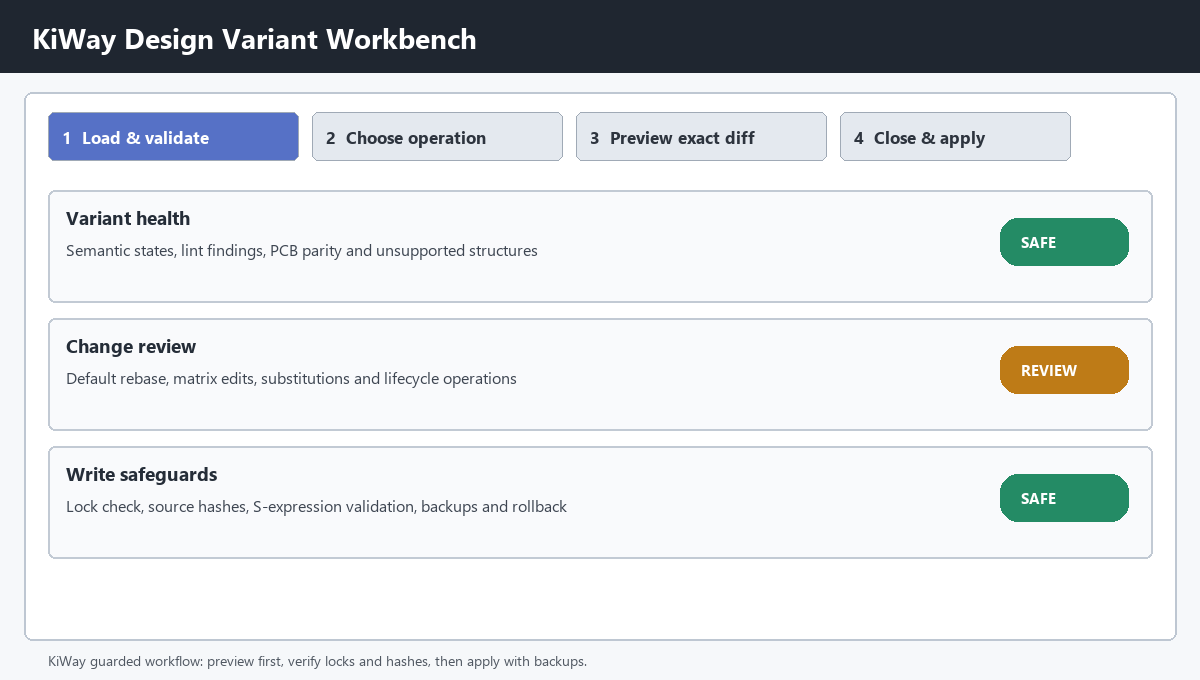
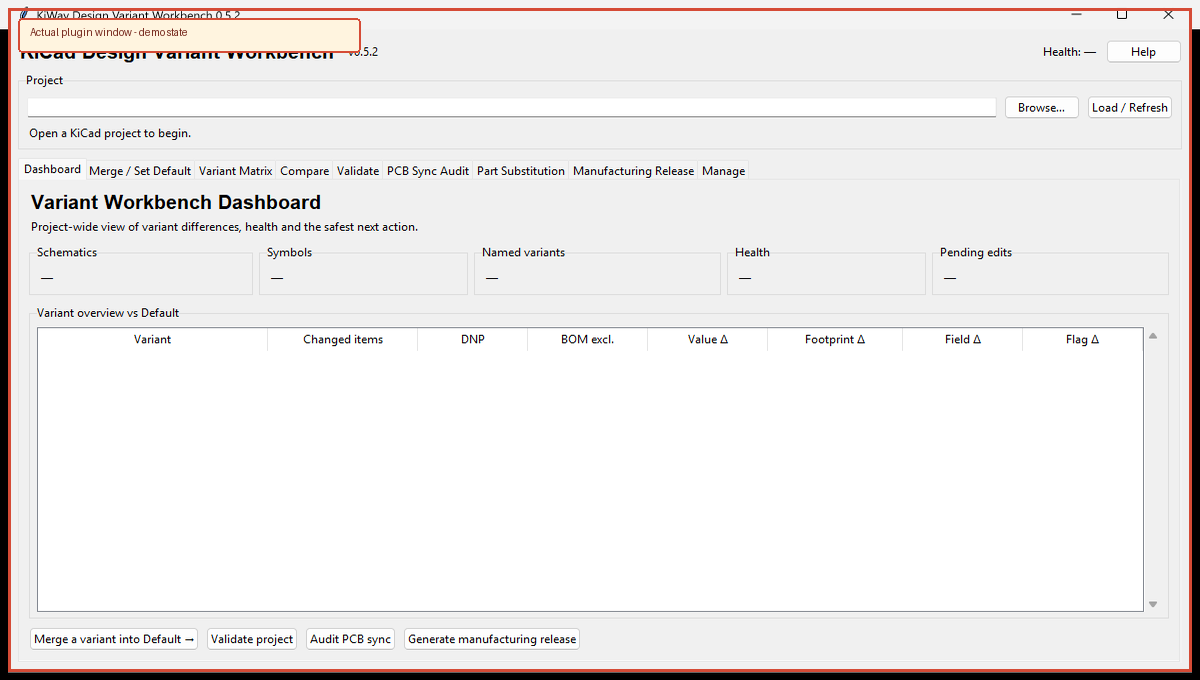
release: publish KiWay 2.21.1

Changed region(s): [[0.0, 0.0, 1.0, 1.0], [0.3392, 0.3397, 0.4625, 0.4015], [0.6167, 0.3397, 0.6475, 0.4015]]

diff --git a/tools/capture_plugin_help.py b/tools/capture_plugin_help.py
@@ -5,6 +5,8 @@ from __future__ import annotations
 import time
 import sys
 import ctypes
+import subprocess
+import tempfile
 from pathlib import Path
 
 import pcbnew
@@ -20,46 +22,110 @@ from signal_integrity_advisor_plugin.signal_integrity_advisor_plugin import Sign
 from test_point_descriptor_plugin.test_point_descriptor_plugin import TestPointFrame
 from trace_impedance_plugin.trace_impedance_plugin import TraceFrame
 from via_stitching_plugin.via_stitching_plugin import ViaFrame
+from portable_assets_plugin.portable_assets.app import PortableAssetsFrame
+from portable_assets_plugin.portable_assets.core.engine import ProjectContext
+from variant_workbench_plugin.variant_manager_plugin import _tk_python
 import wx
 from PIL import Image, ImageDraw
 
 
-def capture(frame: wx.Frame, destination: Path) -> None:
-    frame.SetSize((1200, 680)); frame.SetPosition((30, 30)); frame.Show(); frame.Raise()
-    for _ in range(5):
-        wx.Yield(); time.sleep(0.06)
-    rect = frame.GetScreenRect(); bitmap = wx.Bitmap(rect.width, rect.height)
+def save_window(hwnd: int, destination: Path, title: str) -> None:
+    rect_type = type("RECT", (ctypes.Structure,), {"_fields_": [
+        ("left", ctypes.c_long), ("top", ctypes.c_long),
+        ("right", ctypes.c_long), ("bottom", ctypes.c_long),
+    ]})
+    rect = rect_type()
+    if not ctypes.windll.user32.GetWindowRect(hwnd, ctypes.byref(rect)):
+        raise RuntimeError(f"Could not measure {title}")
+    width, height = rect.right - rect.left, rect.bottom - rect.top
+    bitmap = wx.Bitmap(width, height)
     memory = wx.MemoryDC(bitmap)
-    rendered = ctypes.windll.user32.PrintWindow(int(frame.GetHandle()), int(memory.GetHDC()), 2)
+    rendered = ctypes.windll.user32.PrintWindow(hwnd, int(memory.GetHDC()), 2)
     memory.SelectObject(wx.NullBitmap)
     if not rendered:
-        raise RuntimeError(f"Windows PrintWindow failed for {frame.GetTitle()}")
-    temporary = destination.with_suffix(".capture.png"); bitmap.SaveFile(str(temporary), wx.BITMAP_TYPE_PNG)
+        raise RuntimeError(f"Windows PrintWindow failed for {title}")
+    temporary = destination.with_suffix(".capture.png")
+    bitmap.SaveFile(str(temporary), wx.BITMAP_TYPE_PNG)
     with Image.open(temporary) as source:
         image = source.convert("RGB").resize((1200, 680), Image.Resampling.LANCZOS)
     draw = ImageDraw.Draw(image)
     draw.rectangle((8, 8, 1191, 671), outline="#d54b36", width=3)
     draw.rounded_rectangle((18, 18, 360, 52), radius=4, fill="#fff4df", outline="#d54b36", width=2)
     draw.text((30, 26), "Actual plugin window - demo state", fill="#76281d")
-    image.save(destination, optimize=True); temporary.unlink(missing_ok=True)
+    image.save(destination, optimize=True)
+    temporary.unlink(missing_ok=True)
+
+
+def capture(frame: wx.Frame, destination: Path) -> None:
+    frame.SetSize((1200, 680)); frame.SetPosition((30, 30)); frame.Show(); frame.Raise()
+    for _ in range(5):
+        wx.Yield(); time.sleep(0.06)
+    save_window(int(frame.GetHandle()), destination, frame.GetTitle())
     close = wx.CloseEvent(wx.EVT_CLOSE.typeId); wx.PostEvent(frame, close)
     for _ in range(3): wx.Yield()
+
+
+def capture_variant(destination: Path) -> None:
+    script = ROOT / "variant_workbench_plugin" / "kicad_variant_manager.py"
+    process = subprocess.Popen([_tk_python(), str(script)])
+    hwnd = 0
+    try:
+        for _ in range(100):
+            time.sleep(0.1)
+            matches: list[int] = []
+
+            @ctypes.WINFUNCTYPE(ctypes.c_bool, ctypes.c_int, ctypes.c_int)
+            def visit(candidate: int, _unused: int) -> bool:
+                owner = ctypes.c_ulong()
+                ctypes.windll.user32.GetWindowThreadProcessId(candidate, ctypes.byref(owner))
+                if owner.value != process.pid or not ctypes.windll.user32.IsWindowVisible(candidate):
+                    return True
+                length = ctypes.windll.user32.GetWindowTextLengthW(candidate)
+                if length:
+                    title = ctypes.create_unicode_buffer(length + 1)
+                    ctypes.windll.user32.GetWindowTextW(candidate, title, length + 1)
+                    if title.value.startswith("KiWay Design Variant Workbench"):
+                        matches.append(candidate)
+                return True
+
+            ctypes.windll.user32.EnumWindows(visit, 0)
+            if matches:
+                hwnd = matches[0]
+                break
+        if not hwnd:
+            raise RuntimeError("Variant Workbench window did not appear")
+        ctypes.windll.user32.SetWindowPos(hwnd, 0, 30, 30, 1200, 680, 0x0040)
+        time.sleep(0.4)
+        save_window(hwnd, destination, "KiWay Design Variant Workbench")
+        ctypes.windll.user32.PostMessageW(hwnd, 0x0010, 0, 0)
+        process.wait(timeout=5)
+    finally:
+        if process.poll() is None:
+            process.terminate()
+            process.wait(timeout=5)
 
 
 def main() -> None:
     app = wx.App(False); board = pcbnew.BOARD()
     pcbnew.GetBoard = lambda: board
-    frames = (
-        (BulkLabelEditorFrame(None, board), ROOT / "bulk_label_editor_plugin" / "help-workflow.png"),
-        (PluginDialogV2(None, []), ROOT / "extract_pins_plugin" / "help-workflow.png"),
-        (FanoutFrame(None, board), ROOT / "fanout_generator_plugin" / "help-workflow.png"),
-        (TestPointFrame(None, board), ROOT / "test_point_descriptor_plugin" / "help-workflow.png"),
-        (TraceFrame(None, board), ROOT / "trace_impedance_plugin" / "help-workflow.png"),
-        (ViaFrame(None, board), ROOT / "via_stitching_plugin" / "help-workflow.png"),
-        (SignalIntegrityFrame(None, board), ROOT / "signal_integrity_advisor_plugin" / "help-workflow.png"),
-    )
-    frames[-1][0]._calculate_i2c(None)
-    for frame, destination in frames: capture(frame, destination)
+    with tempfile.TemporaryDirectory(prefix="kiway-help-") as temporary:
+        demo = Path(temporary)
+        (demo / "demo.kicad_pro").write_text("{}\n", encoding="utf-8")
+        pcbnew.SaveBoard(str(demo / "demo.kicad_pcb"), board)
+        frames = (
+            (BulkLabelEditorFrame(None, board), ROOT / "bulk_label_editor_plugin" / "help-workflow.png"),
+            (PluginDialogV2(None, []), ROOT / "extract_pins_plugin" / "help-workflow.png"),
+            (FanoutFrame(None, board), ROOT / "fanout_generator_plugin" / "help-workflow.png"),
+            (TestPointFrame(None, board), ROOT / "test_point_descriptor_plugin" / "help-workflow.png"),
+            (TraceFrame(None, board), ROOT / "trace_impedance_plugin" / "help-workflow.png"),
+            (ViaFrame(None, board), ROOT / "via_stitching_plugin" / "help-workflow.png"),
+            (SignalIntegrityFrame(None, board), ROOT / "signal_integrity_advisor_plugin" / "help-workflow.png"),
+            (PortableAssetsFrame(ProjectContext.discover(demo)), ROOT / "portable_assets_plugin" / "help-workflow.png"),
+        )
+        frames[-2][0]._calculate_i2c(None)
+        for frame, destination in frames:
+            capture(frame, destination)
+    capture_variant(ROOT / "variant_workbench_plugin" / "help-workflow.png")
 
 
 if __name__ == "__main__":

diff --git a/tests/test_ipc_plugins.py b/tests/test_ipc_plugins.py
@@ -25,8 +25,8 @@ from variant_workbench_plugin.kicad_variant_manager import (
 
 ROOT = Path(__file__).resolve().parents[1]
 WORKBENCH_PACKAGES = (
-    ("portable_assets_plugin", "kiway-portable-assets", "0.2.3"),
-    ("variant_workbench_plugin", "kiway-variant-workbench", "0.5.2"),
+    ("portable_assets_plugin", "kiway-portable-assets", "0.2.4"),
+    ("variant_workbench_plugin", "kiway-variant-workbench", "0.5.3"),
 )
 
 
@@ -38,7 +38,7 @@ class WorkbenchPluginTests(unittest.TestCase):
                 metadata = json.loads((package / "metadata.json").read_text(encoding="utf-8"))
                 self.assertEqual(identifier, metadata["identifier"])
                 self.assertEqual(version, metadata["versions"][0]["version"])
-                self.assertEqual("action-plugin", metadata["versions"][0]["runtime"])
+                self.assertEqual("swig", metadata["versions"][0]["runtime"])
                 self.assertTrue((package / "__init__.py").is_file())
                 launcher = (package / "legacy_action_plugin.py").read_text(encoding="utf-8")
                 self.assertIn("pcbnew.ActionPlugin", launcher)
@@ -51,6 +51,16 @@ class WorkbenchPluginTests(unittest.TestCase):
                 with Image.open(package / "icon.png") as icon:
                     self.assertGreaterEqual(icon.width, 32)
                     self.assertGreaterEqual(icon.height, 32)
+
+    def test_pcm_feed_uses_only_kicad_supported_runtime_values(self) -> None:
+        feed = json.loads((ROOT / "pcm" / "pkgs.json").read_text(encoding="utf-8"))
+        invalid = [
+            (package["identifier"], version["version"], version.get("runtime"))
+            for package in feed["packages"]
+            for version in package["versions"]
+            if version.get("runtime", "swig") not in {"swig", "ipc"}
+        ]
+        self.assertEqual([], invalid)
 
     def test_portable_assets_defaults_to_offline_and_hashes_inputs(self) -> None:
         self.assertFalse(PortableOptions().allow_network)

diff --git a/build_pcm.py b/build_pcm.py
@@ -12,7 +12,7 @@ RELEASES_DIR = "releases"
 REPO_URL_BASE = "https://github.com/wayri/KiWay/releases/download" 
 # All package versions in a feed may differ, but this repository publishes
 # their downloadable assets together in one release.
-RELEASE_TAG = "2.21.0"
+RELEASE_TAG = "2.21.1"
 
 def calculate_sha256(file_path):
     sha256_hash = hashlib.sha256()
@@ -26,6 +26,17 @@ def discover_plugins(base_path):
         path for path in base_path.iterdir()
         if path.is_dir() and (path / "metadata.json").exists()
     )
+
+
+def normalize_runtime(version_info):
+    """Migrate legacy ActionPlugin labels to KiCad's PCM runtime enum."""
+    normalized = dict(version_info)
+    if normalized.get("runtime") == "action-plugin":
+        normalized["runtime"] = "swig"
+    runtime = normalized.get("runtime", "swig")
+    if runtime not in {"swig", "ipc"}:
+        raise ValueError(f"Unsupported KiCad PCM runtime: {runtime!r}")
+    return normalized
 
 def create_plugin_zip(plugin_path, version, output_dir, metadata):
     os.makedirs(output_dir, exist_ok=True)
@@ -101,6 +112,8 @@ def main():
         package for package in packages_data['packages']
         if package.get('identifier') in active_identifiers
     ]
+    for package in packages_list:
+        package['versions'] = [normalize_runtime(version) for version in package.get('versions', [])]
     existing_by_id = {pkg.get('identifier'): pkg for pkg in packages_list}
 
     for plugin_path in plugin_paths:
@@ -113,7 +126,7 @@ def main():
 
         file_size = os.path.getsize(zip_path)
         sha256 = calculate_sha256(zip_path)
-        version_info = dict(metadata['versions'][0])
+        version_info = normalize_runtime(metadata['versions'][0])
         version_info.update({
             "download_sha256": sha256,
             "download_size": file_size,

diff --git a/tests/test_kilo_pcm.py b/tests/test_kilo_pcm.py
@@ -22,7 +22,7 @@ def test_kilo_pcm_metadata_and_feed_are_consistent() -> None:
     assert metadata["versions"][0]["version"] == feed_entry["versions"][0]["version"]
     assert metadata["versions"][0]["kicad_version"] == "10.0"
     assert feed_entry["versions"][0]["download_url"].endswith(
-        "/v2.21.0/kilo_plugin-0.1.0.zip"
+        "/v2.21.1/kilo_plugin-0.1.0.zip"
     )
 
 

diff --git a/variant_workbench_plugin/kicad_variant_manager.py b/variant_workbench_plugin/kicad_variant_manager.py
@@ -34,7 +34,7 @@ import webbrowser
 from typing import Dict, Iterable, Iterator, List, Optional, Sequence, Tuple, Union
 
 APP_NAME = "KiWay Design Variant Workbench"
-APP_VERSION = "0.5.2"
+APP_VERSION = "0.5.3"
 BOM_LOGIC_FIX_VERSION = 20260306
 SUPPORTED_MIN_VARIANT_VERSION = 20250922
 

diff --git a/portable_assets_plugin/portable_assets/__init__.py b/portable_assets_plugin/portable_assets/__init__.py
@@ -1,1 +1,1 @@
-__version__ = "0.2.3"
+__version__ = "0.2.4"

diff --git a/portable_assets_plugin/README.md b/portable_assets_plugin/README.md
@@ -1,4 +1,4 @@
-# KiWay Portable Assets 0.2.3
+# KiWay Portable Assets 0.2.4
 
 A KiCad 10 ActionPlugin for making a project self-contained without depending on the original footprint, symbol, or 3D-model library installation. The menu action launches an isolated GUI process and passes the active board path directly.
 

diff --git a/variant_workbench_plugin/README.md b/variant_workbench_plugin/README.md
@@ -1,4 +1,4 @@
-# KiWay Design Variant Workbench 0.5.2
+# KiWay Design Variant Workbench 0.5.3
 
 A standalone Python/Tkinter application and KiCad 10 ActionPlugin for working with KiCad design variants safely. The menu action passes the active project to a detached Workbench process.
 
